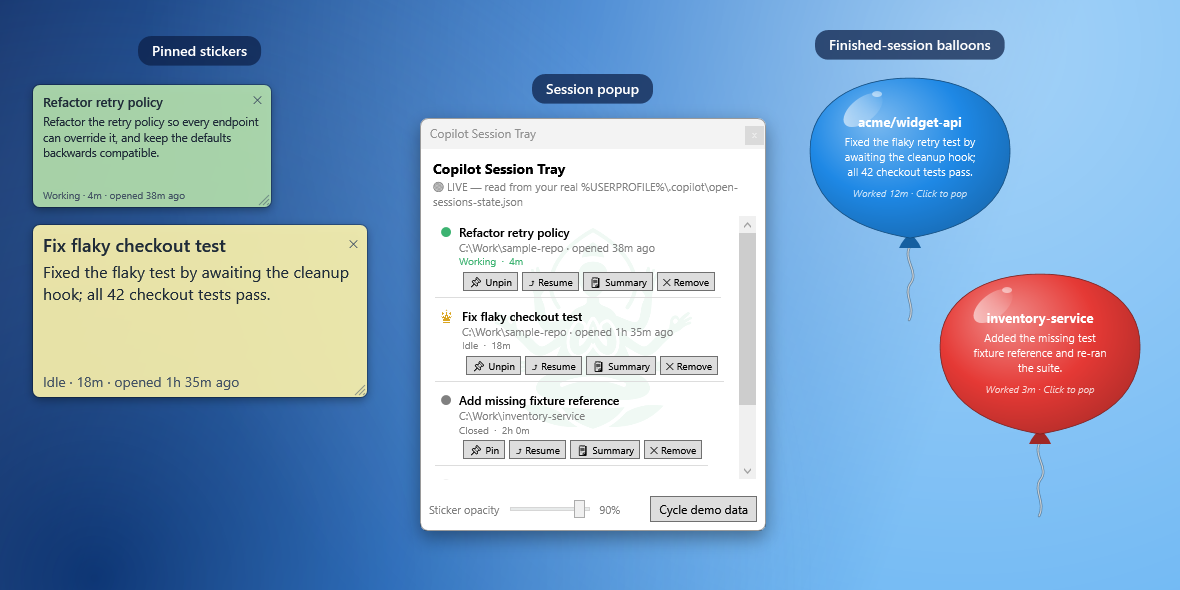
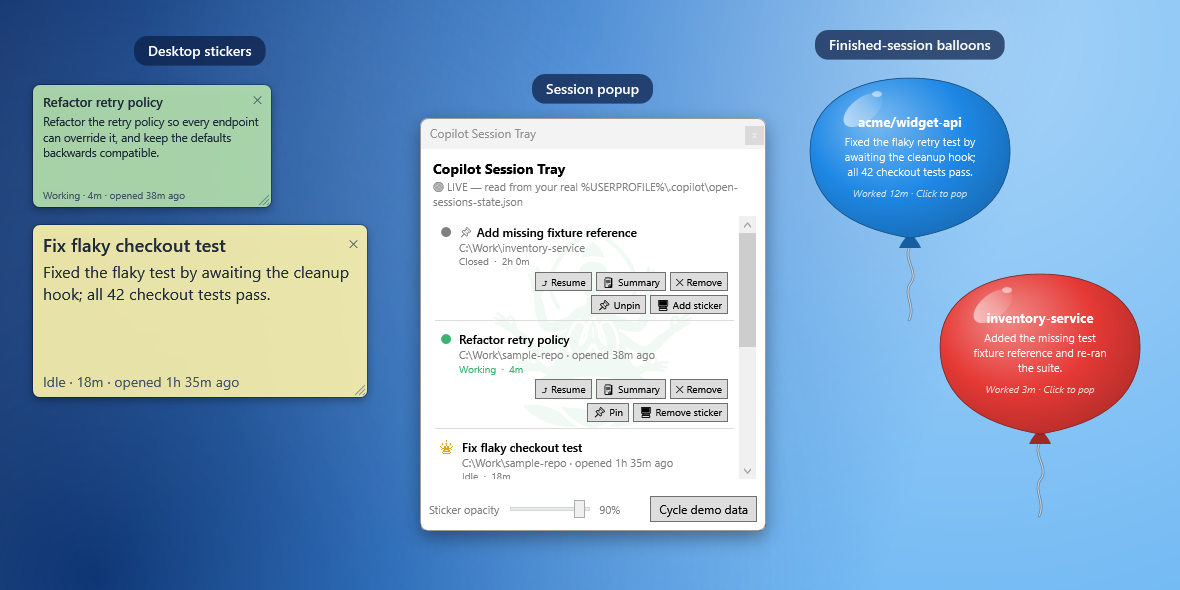
Describe pins and stickers separately and refresh the popup screenshots
README
- The popup and stickers paragraphs and "Try it" now describe Pin (keeps a
  session at the top of the list) and the separate sticker button, including
  "Show sticker" for a sticker closed with X; the status text, the project
  layout and the test count (426) follow.
- The popup screenshot and the overview are regenerated to show the new
  popup: a pinned row on top with its pin mark, and the two button lines.
  The other five images are unchanged.

IMPLEMENTATION_PLAN
- Follow-up: Pin keeps a session at the top of the list and stickers get
  their own button -- the request, the vocabulary change (section 9.8 and
  its follow-ups still use "pin" for what is now a sticker), the decisions
  asked first and the ones made without asking, the implementation, what
  turned up while verifying, and what was and was not verified. It also
  records why a first look at the change showed the old popup: the logon
  task starts the Debug build as it was last built, and only the restart
  script rebuilds it.
- Follow-up: a sticker closed with X reads "Show sticker" in the panel, why
  X was kept as hide-until-change, and what is still open.

The images are the real windows over made-up sample sessions, as before; the
PNGs carry only the standard chunks.

Changed region(s): [[0.3661, 0.3661, 0.6407, 0.8237], [0.0915, 0.061, 0.2441, 0.122]]

diff --git a/IMPLEMENTATION_PLAN.md b/IMPLEMENTATION_PLAN.md
@@ -1678,6 +1678,62 @@ needed to change; this was purely an internal ordering bug in one method.
 
 **Still open**: the images are not regenerated automatically, so one that shows a window whose look has since changed has to be redone by hand.
 
+#### Follow-up (2026-10-20): Pin keeps a session at the top of the list; stickers get their own button
+
+**Requested by the user**: "Can we use the pin button to pin the session in the panel, and a separate button to pin it on my screen as sticker?"
+
+**Vocabulary change**: *pin* now means what it says in the panel, a row that stays at the top of the list, and the note on the desktop is a *sticker* with its own button ("🖥 Add sticker" / "🖥 Remove sticker"). §9.8 and its follow-ups above were written before this and use "pin" and "pinned" for what is now a sticker. In the code, `SessionItemViewModel.IsPinned` is the panel pin and `HasSticker` the desktop note; Core keeps its sticker names (`StickerState.IsPinned`, `SetPinned`, `PinnedSticker`, the `stickers.pinned` block of `app-state.json`) so saved files stay readable.
+
+**Decisions, asked first and built as answered**:
+- Pinned rows float to the top of the list and always stay in it, however old the session is.
+- A session that already has a sticker becomes a panel pin too, once, the first time the new build starts.
+- The popup keeps its 360 px width, and the buttons wrap onto two lines (Resume, Summary and Remove above; Pin and the sticker button below).
+
+**Decisions made without asking**: a pin and a sticker are independent, neither implies the other; "✕ Remove" clears both, and its confirmation says so for a row that has either; a pinned row shows a small 📌 beside its name; pinned rows keep the list's usual order among themselves (open sessions first, then closed ones by recency, then pinned sessions that fell out of the list, newest first) instead of the order they were pinned in; a pinned or stickered row does not use up one of the ten closed-session slots, so a pinned session inside the ten makes an eleventh row; demo rows cannot be pinned.
+
+**Implementation**:
+- `Core`: `IAppStateStore` gains `GetPinnedSessionIdsAsync` (null when nothing was ever saved) and `SavePinnedSessionIdsAsync`, and `AppStateStore` keeps a `pinnedSessions` list in `app-state.json` (blank and duplicate ids are dropped on read). `SessionPins` is the in-memory list. When the file has no `pinnedSessions` yet it starts from the sticker ids and saves at once, so the migration happens only once, even if there were no stickers. It ignores a change that changes nothing and serializes its writes, so concurrent saves end with the latest list; an I/O failure keeps the pin in memory, and any other error is not swallowed.
+- `App`: `TrayViewModel.Pins.cs` holds `SessionsView` (a `ListCollectionView` over the sessions, sorted live by a comparer: pinned first, ties by position in the underlying list, resorted when a row's `IsPinned` changes) and the Pin command; the old pin command became `ToggleSticker`. Rows added later get their saved pin and sticker flags, so a pinned session that opens again goes to the top, and the loader brings back sessions that are pinned or have a sticker and fell off the ten most recent. `MainWindow.xaml` binds to `SessionsView`, stretches the rows so the button columns line up, and has the two button lines.
+
+**Seen while verifying**:
+- A comparer that returns 0 for two rows with the same pin state does not keep their order, so the tie is broken by position in the list; a mutation without that tie-break is caught.
+- `ListBox` rows are only as wide as their content unless `HorizontalContentAlignment` is `Stretch`; with the shorter button lines the buttons stopped lining up. The first version of the row-width check measured the border of the `ListBoxItem` template instead of the row's own, so it passed whatever the layout did; it now finds the row border by its padding.
+- Live sorting moves a row at most about one dispatcher tick after the change. Of 404 random toggles one needed a wait before the order was right, at worst 15.7 ms, so nobody sees it, but a check has to wait for the order to settle.
+- The view model shows three placeholder demo rows until the live load finishes, so a check that waits for three rows can run against them; the harness now waits for the live flag and the expected ids. A probe of 60 fresh view models loaded live every time (median 110 ms, slowest 336 ms).
+
+**Verified**:
+- Build 0 warnings; 426 tests pass (405 before). The 21 new ones are in `AppStateStoreTests` (never saved reads as null, a file written before pins existed, the round trip in order, an empty saved list is not "never saved", pins and stickers do not overwrite each other, a hand-edited file is cleaned) and `SessionPinsTests` (the migration, and that it is not inherited again even when everything was unpinned; set and unset order; idempotence; blank ids; `Ids` is a copy; concurrent saves ending with the latest state; an I/O failure keeping the pin; another failure not being swallowed; the migration through the real store). Mutation check on scratch copies: 12 single-point mutations in Core, all caught. It first found two gaps, closed with the "everything unpinned stays empty" and "other errors are not swallowed" tests, and the in-flight-save test was made stricter.
+- A harness mode driving the real `TrayViewModel`, `SessionDetectionEngine` and `MainWindow` over fixture files passes 26 scenarios: pinned rows float and keep their order; 400 random pin toggles agree with a simple model; a new session lands below the pins; pins survive a restart; a pinned closed session does not use a slot; old pinned sessions come back newest first; pin and sticker are independent; "✕ Remove" clears both; the demo-data round trip; the popup's layout (rows as wide as the list, button columns aligned) and the buttons invoked through UI Automation; the migration from stickers. Mutation check on the app: 11 single-point mutations (reversed sort, no tie-break, the closed-slot quota, old pins in the wrong order, no migration, Remove leaving the pin, rows not stretched, a sticker also pinning, a pin also making a sticker, new rows not given their saved pin, live sorting off), all caught, with the unmutated baseline passing.
+- The older harness modes still pass after the renames: 51 checks (stickers without the mouse), 14 (the popup), 5 (the container), 28 (font scaling).
+- CI's own commands (restore, Release build of the solution, Core tests) pass locally.
+- The README's popup and overview images were regenerated from the real windows with made-up sessions; the other five are unchanged.
+
+**On the user's own machine afterwards**: the first thing the user saw was the old popup, with the sticker session in its ordinary place and no pin order. The cause was not the code: the machine had been restarted, the tray had been started at logon by its Scheduled Task, which runs the `bin\Debug` program exactly as it was built, and that build was still the one from before this change (only a Release build had been made while the old tray held the Debug files). Rebuilding Debug in place and restarting fixed it. The check against real data then passed: before the restart, the real view model over the real sessions and a copy of the real `app-state.json` migrated both sticker sessions to pins, listed them first, saved `pinnedSessions` and left the `stickers`, `preferences`, `readMarkers` and `customDisplayNames` blocks unchanged; after it, the real `app-state.json` held the same two ids with the other blocks unchanged, both stickers reappeared where they had been, and the real popup, read through UI Automation, listed the two pinned rows first (each with "📌 Unpin" and "🖥 Remove sticker") and the other rows after them (with "📌 Pin" and "🖥 Add sticker").
+
+**Not verified**: real mouse clicks on the two new buttons (UI Automation invoked them; the real-mouse pass was not re-run); high DPI.
+
+**Still open**: a pin for a session that has since been deleted from Copilot's history stays in the saved list, unseen; a row removed with "✕ Remove" cannot be pinned again until it comes back on its own; the two-line buttons make rows 107–118 px high, so the popup shows about two and a half rows at once.
+
+#### Follow-up (2026-10-20, later still): a sticker closed with ✕ reads "Show sticker" in the panel
+
+**Reported by the user**, with a screenshot of the popup: "I already closed the second sticker". That row's button still read "🖥 Remove sticker".
+
+**Cause**: not what ✕ does, but what the panel said about it. ✕ snoozes a sticker (§9.8: hidden until its session next changes status, not saved across restarts) and the sticker stays registered, so the row's `HasSticker` stayed true and its button kept offering to remove a note that was no longer on the screen. Before the Pin/Sticker split the same button read "Unpin", which fitted "the pin stays"; the new wording made the mismatch visible. On the running tray: one sticker window visible, both ids still in `stickers.pinned` of `app-state.json`.
+
+**Decision made without asking**: keep ✕ as the user chose it (hide until the session next changes, which is what brings a finished session's sticker back) and make the panel say so, rather than making ✕ remove the sticker. A hidden sticker's button reads "🖥 Show sticker", with a tooltip saying it was closed with ✕ and returns when the session next changes; a click shows it at once, and turns the stickers back on if they were all switched off. Removing a hidden sticker therefore takes two clicks, Show and then Remove. Considered and rejected: making ✕ remove the sticker (it would drop the return-on-change the user chose) and calling the hidden state "Add sticker" (the sticker still exists and still comes back by itself, so the label would be untrue).
+
+**Implementation**: `SessionItemViewModel.IsStickerHidden` drives `StickerButtonText` and a new `StickerButtonToolTip`, which `MainWindow.xaml` binds. `StickerManager.Snooze` sets it; it is cleared when the status changes, when the user clicks Show, and whenever the row loses its sticker. `ToggleSticker` has a third case for a hidden sticker, and `StickerManager` re-syncs on the flag and drops a snooze whose flag the view model cleared.
+
+**Verified**:
+- Build 0 warnings; 426 tests pass (no Core change).
+- A harness mode driving the real `TrayViewModel`, `StickerManager`, sticker windows and `MainWindow` passes 30 checks: X on a sticker leaves the row saying "Show sticker" (with its tooltip) while the saved sticker stays; one click shows it and the row offers Remove; Show then Remove removes it, and adding it again gives a shown sticker rather than a stale hidden one; a working session's sticker stays hidden until the session finishes, then returns and the row follows; Show also switches the stickers on when they were all off; a row that loses its sticker is never hidden, and "✕ Remove" on a row with a hidden sticker clears everything; the real popup's button text and tooltip follow the row and its button brings the sticker back; after a restart a hidden sticker is shown again. Mutation check on scratch copies: 10 single-point mutations (the label ignoring the flag, Show removing instead of showing, X not setting the flag, the flag not cleared on a status change, not cleared when the sticker goes, Show not switching the stickers on, the snooze surviving a cleared flag, the manager not listening to the flag, the tooltip not bound, Show not clearing the flag), all caught.
+- The older harness modes still pass: 59 checks (the pin scenarios), 14 (popup), 51 (stickers without the mouse), 5 (container), 28 (font scaling).
+- On the user's machine: the tray was restarted through the Start-menu script, both stickers came back at their saved places, and the second was closed again so the screen matched what the user had; the real popup, read through UI Automation, shows "Remove sticker" for the shown sticker, "Show sticker" with the explaining tooltip for the hidden one, and "Add sticker" for rows without one. The saved `app-state.json` was unchanged by all of this.
+
+**Not verified**: a real mouse click on ✕ and on the new button (the harness raises the click events and UI Automation invoked the buttons).
+
+**Still open**: a sticker hidden with ✕ is shown again after a restart or reboot, as §9.8 decided, so the restart that deployed this change brought the second sticker back until it was closed again; saving the hidden state would need a way to tell whether the session changed while the tray was not running.
+
 ## 10. Milestones
 
 1. **Phase 0 — Spike**: throwaway console app that polls

diff --git a/README.md b/README.md
@@ -12,7 +12,7 @@ port) that aren't scheduled yet.
 ## What it looks like
 
 <p align="center">
-  <img src="docs/images/overview.png" width="900" alt="A desktop with two pinned session stickers on the left, the session popup in the middle and two finished-session balloons on the right">
+  <img src="docs/images/overview.png" width="900" alt="A desktop with two session stickers on the left, the session popup in the middle and two finished-session balloons on the right">
 </p>
 
 These are the real windows, rendered with made-up sample sessions on a plain
@@ -20,25 +20,28 @@ backdrop, so nothing here comes from anyone's actual work.
 
 **The session popup.** Left-click the tray icon to see your open Copilot CLI
 sessions and the most recently closed ones, each with its state, its folder and
-how long it has been in that state, and buttons to pin it as a desktop sticker,
-resume it in a new terminal, read its summary or remove it from the list. The
-slider at the bottom sets how see-through the stickers are. "🗒 Summary" shows
-what a session is about (its latest checkpoint, or a recap of its first request
-and latest reply) without opening the terminal it runs in.
+how long it has been in that state. Each row's buttons resume the session in a
+new terminal, show its summary or remove it from the list; below them, 📌 Pin
+keeps the session at the top of the list (marked with a small 📌, and kept even
+when it is old) and 🖥 Add sticker puts it on your desktop. The slider at the
+bottom sets how see-through the stickers are. "🗒 Summary" shows what a session
+is about (its latest checkpoint, or a recap of its first request and latest
+reply) without opening the terminal it runs in.
 
 <table>
   <tr>
-    <td valign="top"><img src="docs/images/popup.png" width="340" alt="The session popup listing three sessions, each with Pin or Unpin, Resume, Summary and Remove buttons"></td>
+    <td valign="top"><img src="docs/images/popup.png" width="340" alt="The session popup with a pinned session at the top; each row has Resume, Summary and Remove buttons above Pin or Unpin and Add or Remove sticker buttons"></td>
     <td valign="top"><img src="docs/images/summary.png" width="480" alt="The Summary panel showing a session's overview and next steps"></td>
   </tr>
 </table>
 
-**Stickers and balloons.** A pinned session becomes a note on the desktop,
-green while the session works and light yellow otherwise. Drag it to move it,
-drag an edge to resize it (the text scales with it), click ✕ to hide it until
-the session's next state change, or double-click it to resume the session with
-its history. When a session finishes, a colorful balloon floats up from just
-above the taskbar with what the turn reported; click it to pop it.
+**Stickers and balloons.** A session with a sticker becomes a note on the
+desktop, green while the session works and light yellow otherwise. Drag it to
+move it, drag an edge to resize it (the text scales with it), click ✕ to hide it
+until the session's next state change (its row's button then reads "🖥 Show
+sticker"), or double-click it to resume the session with its history. When a
+session finishes, a colorful balloon floats up from just above the taskbar with
+what the turn reported; click it to pop it.
 
 <table>
   <tr>
@@ -121,9 +124,10 @@ implementations of all 9 contracts behind `Services/` — reading the real
 checking real process liveness, launching real terminal sessions
 (resume/start-from-summary/start-new-task/headless, each in its own
 distinctly-colored terminal pane), and persisting this app's own
-dismissal markers, preferences, display-name overrides, and sticker pins under
-`%LOCALAPPDATA%\CopilotSessionTray\`. The app starts directly on the
-**live** view (your real currently-open + 10 most-recent closed sessions);
+dismissal markers, preferences, display-name overrides, pinned sessions and
+stickers under `%LOCALAPPDATA%\CopilotSessionTray\`. The app starts directly on
+the **live** view (your real currently-open + 10 most-recent closed sessions,
+plus any you have pinned or given a sticker);
 "Cycle demo data" still walks 5 fixed fake scenarios on demand. A
 continuous background monitor (`ISessionDetectionEngine`, polling every
 3s) now drives real toast notifications (`INotificationService`) when a
@@ -157,7 +161,8 @@ left open: session titles taken from your own `/rename` and the checkpoints,
 richer resume seeds, balloons that say what the turn did, and a resumed-from
 note on the rows, and a Summary panel that shows a session's summary
 the way you'd read it instead of the text sent to Copilot, and finally
-desktop stickers for pinned sessions (§9.8).
+desktop stickers (§9.8), with a separate Pin that keeps a session at the top
+of the list.
 
 ## Project layout
 
@@ -173,9 +178,10 @@ src/
                                        checkpoints, the database), the reader-facing summary view and the
                                        small markdown reader behind it, the SessionDetectionEngine
                                        poll/diff "brain" (incl. what each turn reported and how long it
-                                       took), events.jsonl tailing, and the rules behind the desktop
-                                       stickers (their state, layout and gist)
-  CopilotSessionTray.Core.Tests/      xUnit tests (405), fixture-based — every service takes an optional
+                                       took), events.jsonl tailing, the rules behind the desktop
+                                       stickers (their state, layout and gist), and the sessions
+                                       pinned to the top of the list
+  CopilotSessionTray.Core.Tests/      xUnit tests (426), fixture-based — every service takes an optional
                                        path override so tests never touch the real .copilot folder (the
                                        launch-script tests also run the generated script through cmd.exe)
   CopilotSessionTray.App/             WPF tray shell, DI composition root in App.xaml.cs
@@ -185,7 +191,7 @@ src/
     MainWindow.xaml                   Hosts the TaskbarIcon + doubles as the click-to-show session popup
     BalloonWindow.xaml                One notification balloon: a transparent, non-activating window drawn as a glossy party balloon
     SessionSummaryWindow.xaml         The "🗒 Summary" panel: a session's summary as formatted, selectable text (SummaryDocumentBuilder.cs)
-    Stickers/                         StickerWindow (a borderless, always-on-top desktop sticker that never takes focus) + StickerManager (one per pinned session)
+    Stickers/                         StickerWindow (a borderless, always-on-top desktop sticker that never takes focus) + StickerManager (one per session with a sticker)
     TrayIconRenderer.cs               Draws the tray icon: exact-size, emboldened gold glyph + a radial glow from the palms
 docs/
   images/                             The screenshots in this README, rendered from made-up sample sessions
@@ -247,21 +253,29 @@ id, sits behind "Text sent to Copilot when starting a new session from this
 summary", with a Copy button. The summary is re-read each time the panel opens
 and before "Resume with summary", so a checkpoint written while the app was
 running shows up without a restart.
-Pin a session with its "📌 Pin" button and a sticker for it appears on the
-desktop, from the top-left corner down the left edge (wrapping into further
-columns). A sticker shows the session's name, the gist — what the session is
-working on, or what its last turn reported — and a line such as
-"Working · 12m · opened 1h 5m ago" (its state, how long it has been in it, and
-how long ago the session was opened); it is green while the session works and
-light yellow otherwise. Stickers stay on top of other windows and never take
-keyboard focus. Drag one to move it; drag its right edge, bottom edge or corner
-to resize it, and its text grows or shrinks with it (never below 85% of the
-default size); each remembers its place and size. The ✕ hides a sticker until
-that session's next state change, and a double-click resumes the session with
-its history in a new terminal after a Yes/No confirmation. The slider at the
-bottom of the popup sets the transparency of all stickers, "Show stickers" in
-the tray menu hides or shows them all, and "📌 Unpin" removes one. Pins, places
-and the slider survive restarts (see IMPLEMENTATION_PLAN.md §9.8).
+Pin a session with its "📌 Pin" button to keep it at the top of the list: pinned
+rows sit above the others (open sessions first, each group in its usual order),
+carry a small 📌 beside their name, are remembered across restarts, and stay in
+the list even when they are old or past the ten most recent closed sessions,
+which they do not use up. "📌 Unpin" lets go. Put a session on the desktop with
+its "🖥 Add sticker" button and a sticker for it appears, from the top-left
+corner down the left edge (wrapping into further columns). A sticker shows the
+session's name, the gist — what the session is working on, or what its last turn
+reported — and a line such as "Working · 12m · opened 1h 5m ago" (its state, how
+long it has been in it, and how long ago the session was opened); it is green
+while the session works and light yellow otherwise. Stickers stay on top of other
+windows and never take keyboard focus. Drag one to move it; drag its right edge,
+bottom edge or corner to resize it, and its text grows or shrinks with it (never
+below 85% of the default size); each remembers its place and size. The ✕ hides a
+sticker until that session's next state change, and meanwhile its row's button
+reads "🖥 Show sticker", which brings it back at once; a double-click resumes the
+session with its history in a new terminal after a Yes/No confirmation. The
+slider at the bottom of the popup sets the transparency of all stickers, "Show
+stickers" in the tray menu hides or shows them all, and "🖥 Remove sticker"
+removes one. A pin and a sticker are independent: neither implies the other, and
+"✕ Remove" clears both along with the row. Pins, stickers, places and the slider
+survive restarts, though a sticker hidden with ✕ is shown again after one (see
+IMPLEMENTATION_PLAN.md §9.8).
 Each terminal this app opens (resume/start new task) gets its own
 distinct background color so concurrent panes are easy to tell apart.
 Quit is the only way to fully
